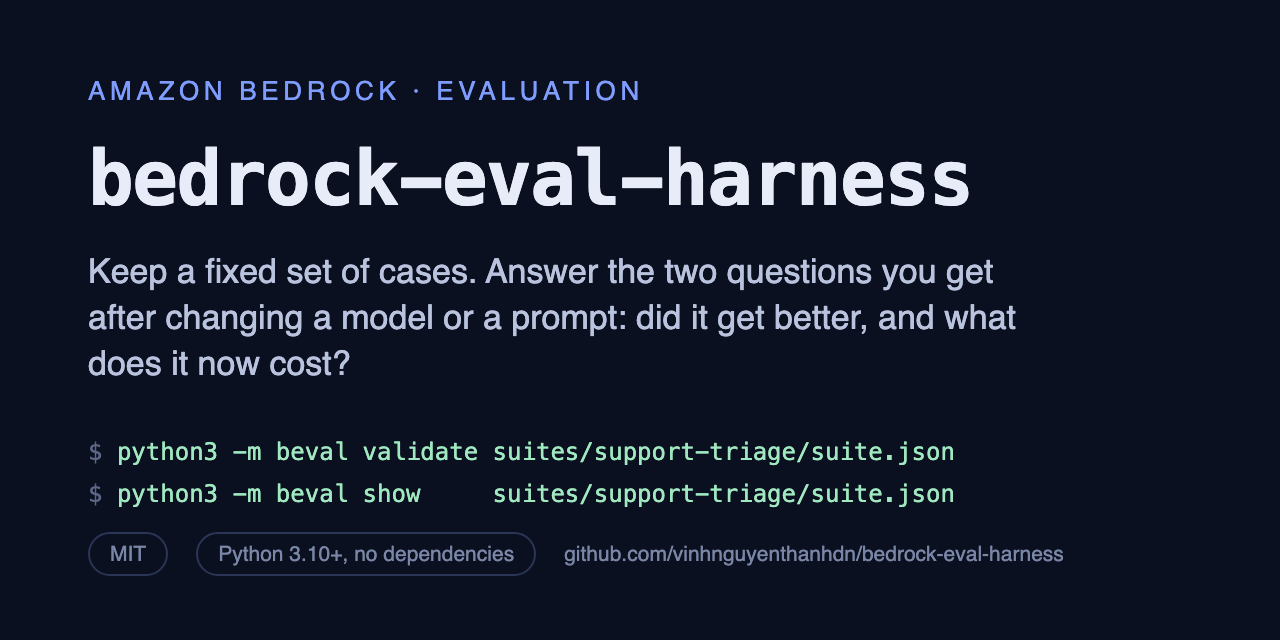
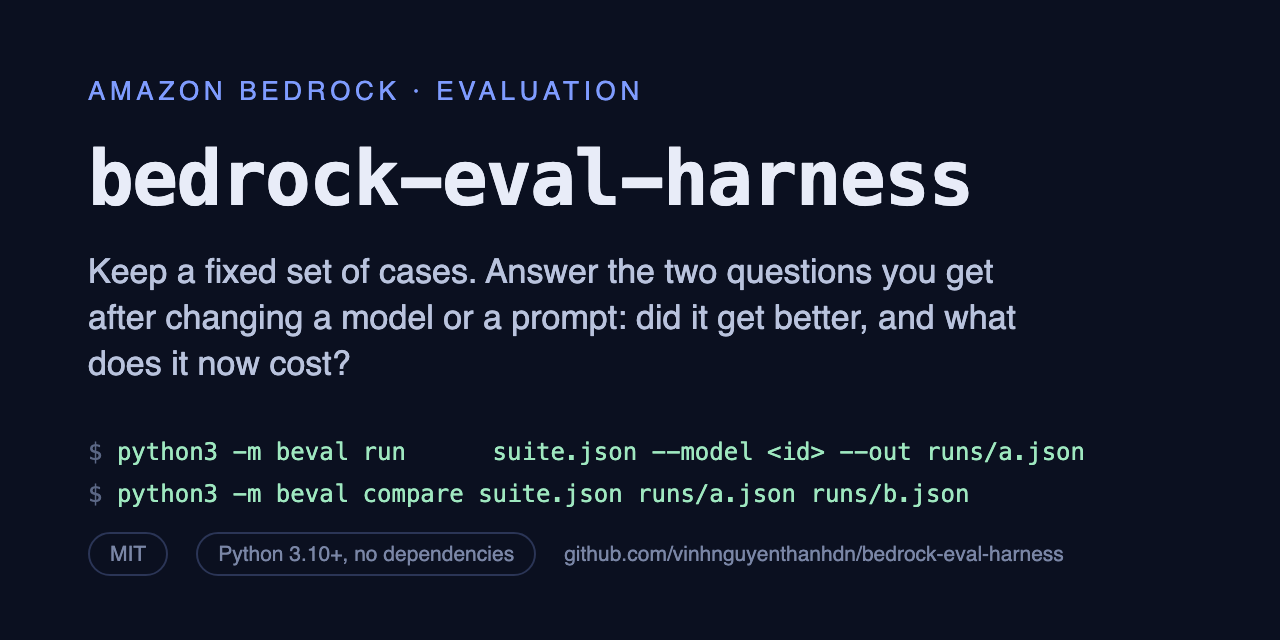
docs(preview): the card still showed only the two commands the repo shipped with
The social card was drawn when validate and show were the whole CLI. score,
compare and run landed after it, so a link shared anywhere rendered a card that
made this look like a suite linter rather than something that calls a model and
tells you what changed between two runs.

The two lines now show the loop the lede promises: run one model into a run file,
compare two run files against the same suite. Both are copy-pasteable argument
orders, checked against beval run --help and beval compare --help.

Changed region(s): [[0.2812, 0.75, 0.75, 0.8125], [0.4375, 0.6875, 0.8438, 0.7188], [0.2812, 0.6875, 0.375, 0.7188]]

diff --git a/docs/social-preview.html b/docs/social-preview.html
@@ -69,8 +69,8 @@
       prompt: did it get better, and what does it now cost?
     </p>
     <div class="cmds">
-      <span>$</span> python3 -m beval validate suites/support-triage/suite.json<br />
-      <span>$</span> python3 -m beval show&nbsp;&nbsp;&nbsp;&nbsp; suites/support-triage/suite.json
+      <span>$</span> python3 -m beval run&nbsp;&nbsp;&nbsp;&nbsp;&nbsp; suite.json --model &lt;id&gt; --out runs/a.json<br />
+      <span>$</span> python3 -m beval compare suite.json runs/a.json runs/b.json
     </div>
     <footer>
       <span class="pill">MIT</span>
